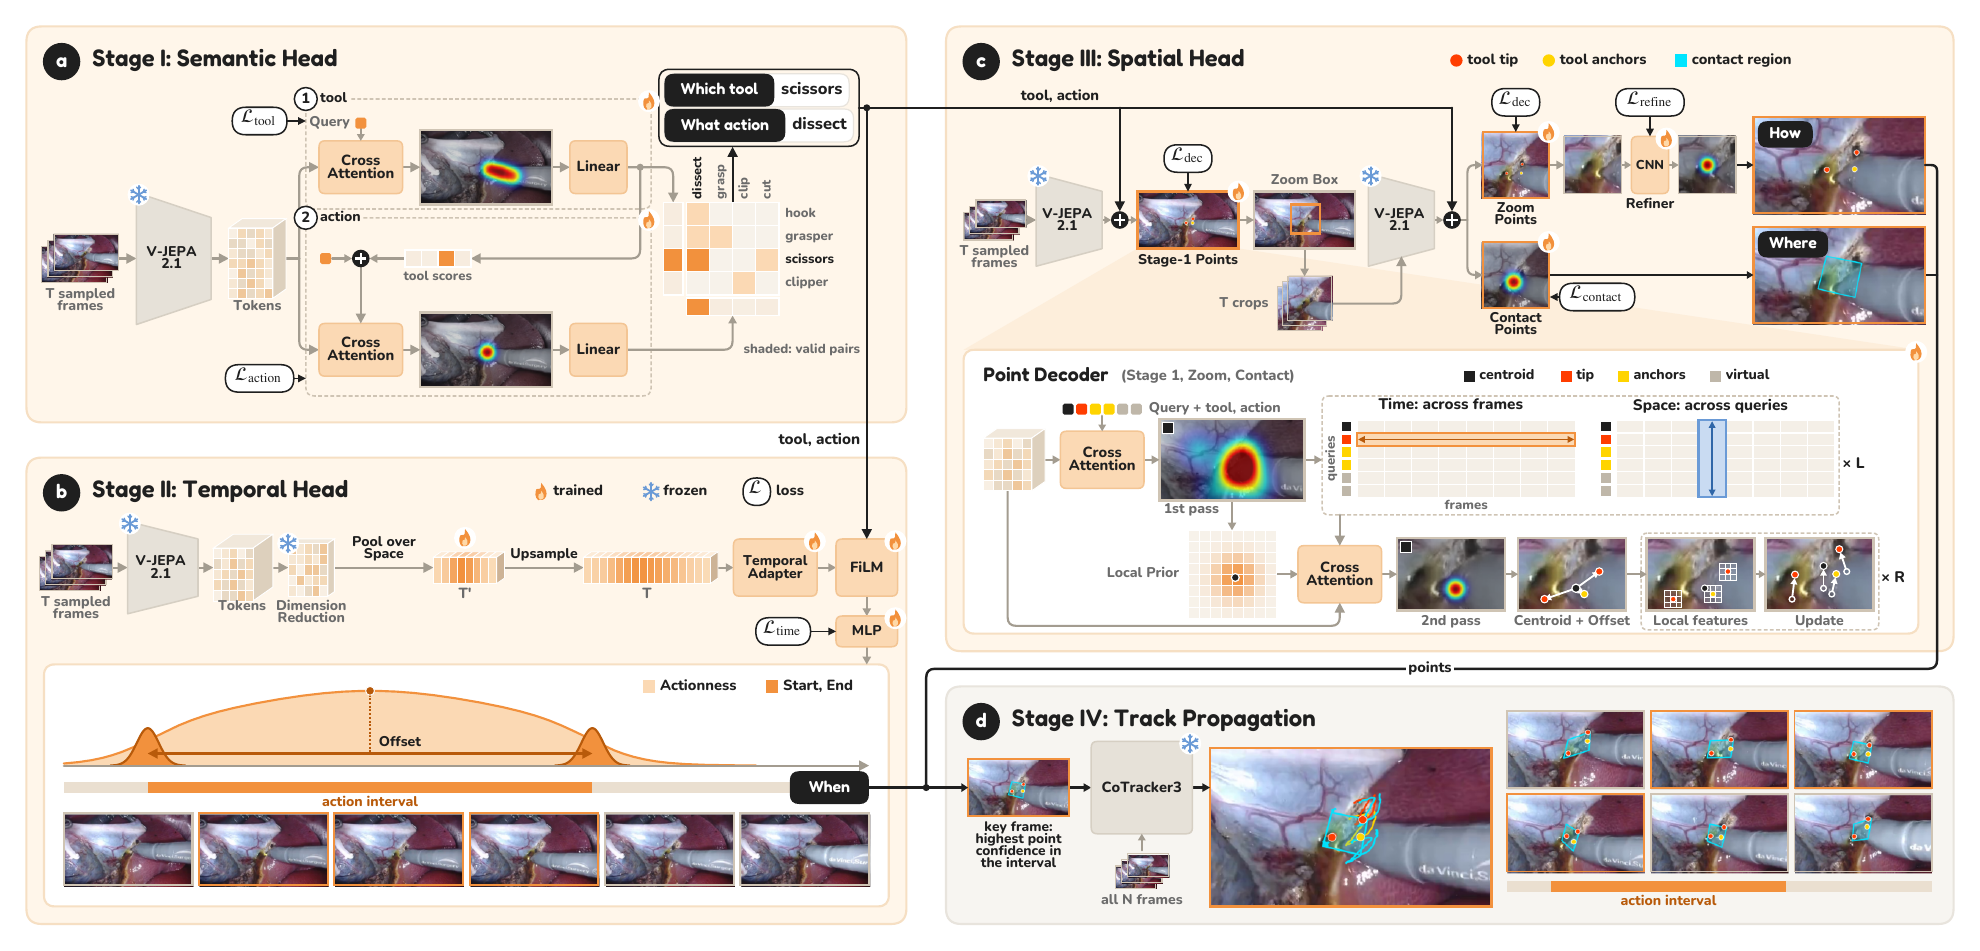
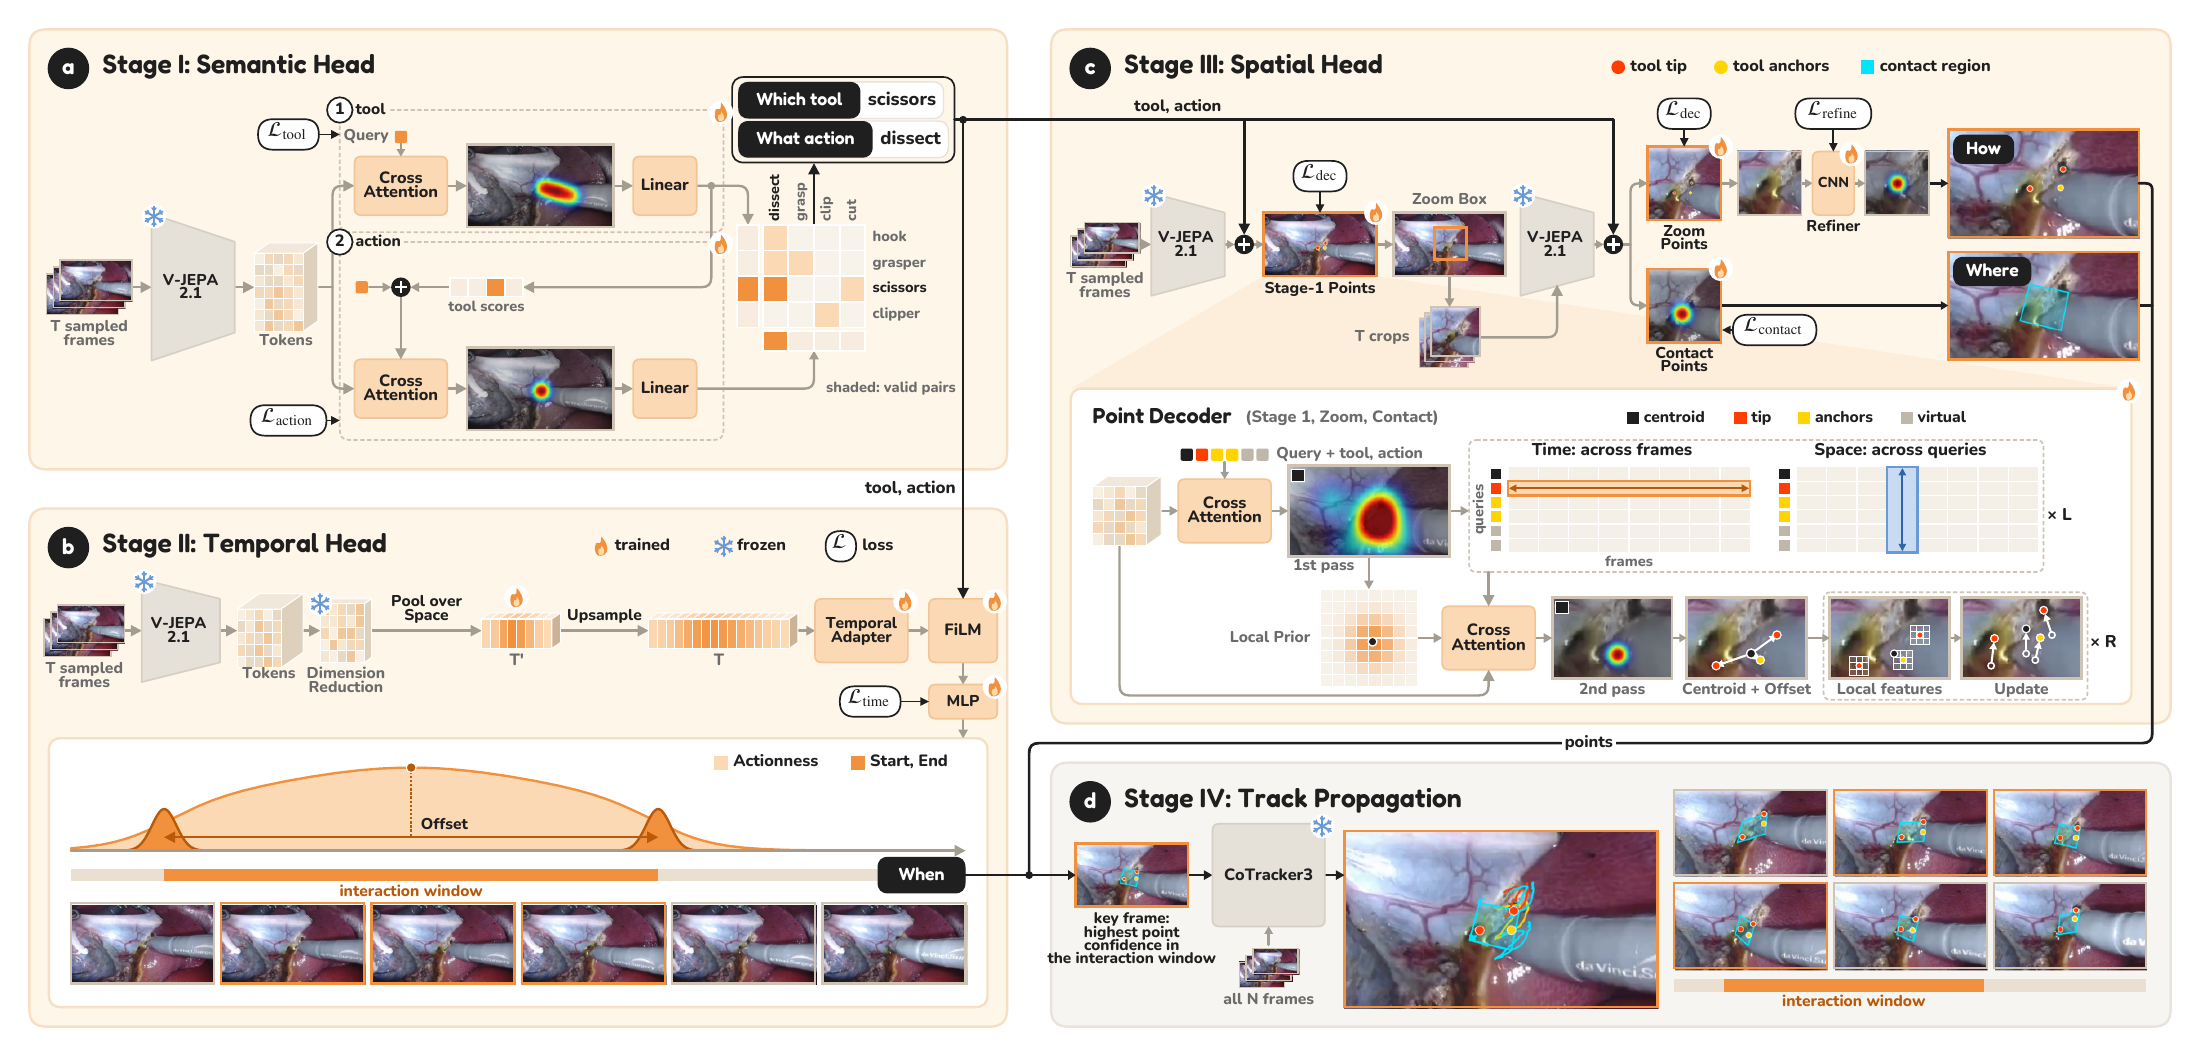
Keep hero resource links stationary and align the project page with the paper

diff --git a/index.html b/index.html
@@ -419,28 +419,25 @@
     --b: max(2px, calc(var(--u) * 2)); --ih: calc(var(--u) * 40); --gap: calc(var(--u) * 12);
     position: absolute; z-index: 2;
     /* the paw tip, as a point of the 1920 x 1080 video frame (the bubble is pinned the same way) */
-    left: calc((100vw - 1920 * var(--vs)) * .62 + 1920 * var(--vs) * .372);
+    left: max(calc(var(--gutter) + 15ch), calc((100vw - 1920 * var(--vs)) * .62 + 1920 * var(--vs) * .372 - var(--u) * 10));
     top: calc((100vh - 1080 * var(--vs)) * .5 + 1080 * var(--vs) * .632);
-    width: 0; height: 0;
+    display: grid; justify-items: end; gap: var(--gap); width: max-content;
+    transform: translate(-100%, calc(-100% + var(--ih) * .5));
   }
   .paw-item {
-    position: absolute; right: calc(var(--u) * 10); top: 0; height: var(--ih); padding: 0 calc(var(--u) * 18);
+    height: var(--ih); padding: 0 calc(var(--u) * 18);
     display: flex; align-items: center; white-space: nowrap; font-size: calc(var(--u) * 13);
     background: var(--paper); color: var(--ink);
     box-shadow: 0 calc(var(--b) * -1) 0 0 var(--ink), 0 var(--b) 0 0 var(--ink), calc(var(--b) * -1) 0 0 0 var(--ink), var(--b) 0 0 0 var(--ink),
                 calc(var(--u) * 5) calc(var(--u) * 5) 0 0 var(--ink);
-    transform: translateY(calc(-50% + var(--o, 0) * (var(--ih) + var(--gap))));
-    opacity: .78; transition: transform .55s cubic-bezier(0.16, 1, 0.3, 1), opacity .3s, background-color .12s, color .12s, box-shadow .12s;
+    opacity: .78; transition: opacity .15s, background-color .12s, color .12s;
   }
-  .paw-item:hover { opacity: 1; }
-  .paw-item.is-active { opacity: 1; }
-  .paw-item.is-active::after { content: ""; margin-left: calc(var(--u) * 10); width: calc(var(--u) * 7); height: calc(var(--u) * 7); background: var(--orange); }
-  .paw-item.is-tapped { background: var(--orange); color: #fff;
-    box-shadow: 0 calc(var(--b) * -1) 0 0 var(--ink), 0 var(--b) 0 0 var(--ink), calc(var(--b) * -1) 0 0 0 var(--ink), var(--b) 0 0 0 var(--ink), 0 0 0 0 var(--ink);
-    transform: translate(calc(var(--u) * 5), calc(-50% + var(--o, 0) * (var(--ih) + var(--gap)) + var(--u) * 5)); }
+  .paw-item:hover, .paw-item:focus-visible, .paw-item.is-active { opacity: 1; }
+  .paw-item:focus-visible { outline: 2px solid var(--orange); outline-offset: 5px; }
+  .paw-item::after { content: ""; margin-left: calc(var(--u) * 10); width: calc(var(--u) * 7); height: calc(var(--u) * 7); background: var(--orange); visibility: hidden; }
+  .paw-item.is-active::after { visibility: visible; }
+  .paw-item.is-tapped { background: var(--orange); color: #fff; }
   .paw-item.is-tapped::after { background: #fff; }
-  .bubble { transition: transform .16s cubic-bezier(.3, 1.6, .5, 1), background-color .16s; transform-origin: 0 100%; }
-  .bubble.is-pop { transform: translateY(calc(-100% - var(--u) * 12)) scale(1.08) rotate(-1.5deg); }
   .bubble.is-tap { background: #fff; }
   .hero__body .hero__actions { display: none; }          /* the links moved to the paw */
   .hero__lede { margin-bottom: calc(var(--u) * 6); }
@@ -498,7 +495,7 @@
   <p class="hero__paper">Unifying Surgical Action Understanding<br>in Time and Space</p>
   <div class="mosaic-slot" id="mosaicSlot" aria-hidden="true"></div>
 
-  <p class="bubble" id="bubble" aria-live="polite"><span id="bubbleText">Purr! Want the code?</span><span class="bubble__cursor" aria-hidden="true"></span>
+  <p class="bubble" id="bubble" aria-hidden="true"><span id="bubbleText">Purr! Want the code?</span><span class="bubble__cursor" aria-hidden="true"></span>
     <svg class="bubble__tail" viewBox="0 0 6 6" shape-rendering="crispEdges" aria-hidden="true"><path fill="#e7e7e7" d="M1 0h4v1h-1v1h-1v1h-1v1h-1z"/><path fill="#050505" d="M0 0h1v5h-1zM1 4h1v1h-1zM2 3h1v1h-1zM3 2h1v1h-1zM4 1h1v1h-1zM5 0h1v1h-1z"/></svg>
   </p>
 
@@ -522,7 +519,7 @@
     <ul class="hero__stats" aria-label="TACTUS at a glance">
       <li>22,995 action clips</li>
       <li>141 videos</li>
-      <li>5 questions per clip</li>
+      <li>5 benchmark questions</li>
     </ul>
   </div>
   <canvas id="scene"></canvas>
@@ -545,9 +542,9 @@
 <section class="sec abstract" id="abstract">
   <div class="sec__head"><span class="sec__no">01</span><h2 class="sec__title">Abstract</h2></div>
   <div class="gc rv"><div class="gc-hatch"></div><div class="gc-frame"><div class="gc-cell gc-pad">
-    <p>Surgical video models are learning to name what they see: the tool, the action, the phase of an operation. Yet an operation turns on what names leave out: when a tool starts to act, how its tip moves, and where it touches tissue. A surgeon follows all of this at a glance. Can models? No surgical dataset we review can tell, because none labels all of it on the same action.</p>
-    <p>We present <b>TACTUS</b>: 22,995 clips (2.9M frames) from 141 videos of five public sources, with tool and action classes, nested time spans, and, in nearly all, per-frame tool keypoints and contact regions. Per-frame labels are costly, about 15 minutes a clip, so TACTUS comes in two tiers. In 15,668 <b>Gold</b> clips, humans prompt a tracker on key frames, and each clip is reviewed and re-checked; in 7,327 <b>Silver</b> clips, a model places the prompts, at about one minute a clip.</p>
-    <p>On TACTUS, the answer is a sharp split. Our baseline, <b>TactusNet</b>, names 93.8% of tool&ndash;action pairs, yet even the best method per question recalls only 47% of action intervals at a tIoU of 0.7, misses a fifth of tool points by over 32 pixels, and reaches a contact Dice of 0.35. Naming these actions is within reach; following them remains open.</p>
+    <p>A surgical video model can recognize a maneuver by identifying the tool and its action. Following the maneuver also requires knowing when the instrument acts, how it moves, and where it touches tissue. Existing surgical benchmarks usually evaluate these questions separately. TACTUS brings them together within the same action.</p>
+    <p>We present <b>TACTUS</b>, a dataset of 22,995 action clips spanning 2.9 million frames from 141 videos across five public sources. Annotators identify the tool and action and mark the interaction window within the full action. Nearly all clips also include per-frame tool landmarks and tissue contact regions. In 15,668 <b>Gold</b> clips, people place the spatial prompts for tracking, then review and re-check the annotations. In 7,327 <b>Silver</b> clips, a model places the spatial prompts.</p>
+    <p>On the Gold test set, our reference model, <b>TactusNet</b>, identifies the tool and action together in 93.8% of clips after training on Gold. Adding Silver raises that accuracy to 95.5%. In a separate Gold-only experiment, fine-tuning an encoder for each head group reaches 95.8%. Pinpointing the interaction remains harder. ActionFormer recalls 46.6% of interaction windows at a temporal IoU threshold of 0.7, and SegFormer reaches a Dice score of 0.351 for overlap with the annotated contact region.</p>
   </div></div><div class="gc-hatch"></div></div>
 </section>
 
@@ -568,7 +565,7 @@
 </section>
 
 <section class="sec" id="questions">
-  <div class="sec__head"><span class="sec__no">03</span><h2 class="sec__title">Five Questions</h2><span class="sec__sub">What every clip answers</span></div>
+  <div class="sec__head"><span class="sec__no">03</span><h2 class="sec__title">Five Questions</h2><span class="sec__sub">What the annotations describe</span></div>
   <div class="gc rv"><div class="gc-hatch"></div><div class="gc-frame">
     <div class="gc-row c5">
       <div class="gc-cell gc-card"><div class="gc-well"></div><p class="gc-num">01</p><h3 class="gc-title">Which</h3><p class="gc-copy">Which instrument acts? One of four tools: hook, grasper, scissors, or clipper.</p></div>
@@ -591,7 +588,7 @@
       <div class="gc-cell gc-stat"><b>141</b><span>videos</span></div>
       <div class="gc-cell gc-stat"><b>2.9M</b><span>frames</span></div>
       <div class="gc-cell gc-stat"><b>6</b><span>tool&ndash;action pairs</span></div>
-      <div class="gc-cell gc-stat"><b>5</b><span>questions per clip</span></div>
+      <div class="gc-cell gc-stat"><b>5</b><span>benchmark questions</span></div>
     </div>
     <div class="gc-row c1"><div class="gc-cell gc-well" style="padding: calc(var(--u) * 22);"><img src="assets/fig_pipeline.png" alt="How TACTUS is annotated: select sources, cut clips and mark time, place points (Gold), review, and scale up with TactusNet (Silver)" loading="lazy" style="mix-blend-mode: multiply;"></div></div>
     <div class="gc-row c2 stack">
@@ -608,8 +605,8 @@
     <div class="gc-row c4">
       <div class="gc-cell gc-card"><div class="gc-well"></div><p class="gc-num">Stage I</p><h3 class="gc-title">Semantic Head</h3><p class="gc-copy">The instrument and action, decoded as one of the six valid tool&ndash;action pairs.</p></div>
       <div class="gc-cell gc-card"><div class="gc-well"></div><p class="gc-num">Stage II</p><h3 class="gc-title">Temporal Head</h3><p class="gc-copy">The start and end of the interaction window within the action window.</p></div>
-      <div class="gc-cell gc-card"><div class="gc-well"></div><p class="gc-num">Stage III</p><h3 class="gc-title">Spatial Head</h3><p class="gc-copy">Three instrument landmarks and four contact-region corners: first on the full frame, then on a crop, with a refiner at native resolution.</p></div>
-      <div class="gc-cell gc-card"><div class="gc-well"></div><p class="gc-num">Stage IV</p><h3 class="gc-title">Track Propagation</h3><p class="gc-copy">A frozen point tracker carries the predicted points through every frame of the action window.</p></div>
+      <div class="gc-cell gc-card"><div class="gc-well"></div><p class="gc-num">Stage III</p><h3 class="gc-title">Spatial Head</h3><p class="gc-copy">TactusNet first locates the tool on each full frame and crops around its landmarks. Separate decoders predict three tool landmarks and four contact-region corners in the crop. A final pass refines the tool landmarks at native resolution.</p></div>
+      <div class="gc-cell gc-card"><div class="gc-well"></div><p class="gc-num">Stage IV</p><h3 class="gc-title">Track Propagation</h3><p class="gc-copy">For dense annotation, TactusNet selects the most confident frame within the interaction window separately for tool points and contact corners. CoTracker3 tracks each group through the full action window.</p></div>
     </div>
   </div><div class="gc-hatch"></div></div>
 </section>
@@ -667,7 +664,7 @@
       </table>
     </div></div>
     <div class="gc-row c1"><div class="gc-cell gc-pad" style="display:flex;flex-wrap:wrap;gap:calc(var(--u) * 14);align-items:center;justify-content:space-between;">
-      <p class="gc-copy" style="max-width:62ch;">All methods train on the Gold training set and are scored by the same code. Shaded rows are TactusNet; the best value of each column is marked. Add your own method with one prediction file.</p>
+      <p class="gc-copy" style="max-width:62ch;">The learned methods train on Gold. The three reference baselines have no trainable parameters. When, How, and Where use the ground-truth tool and action. Spatial scores use direct predictions on 16 sampled frames, before track propagation. Shaded rows show TactusNet. Each column highlights its best value.</p>
       <div class="hero__actions"><a class="btn" href="https://github.com/Ruifreddie/TACTUS/tree/main/baselines">Run the benchmark</a><a class="btn" href="https://huggingface.co/abccbd/TACTUS-TactusNet">Get the checkpoints</a></div>
     </div></div>
   </div><div class="gc-hatch"></div></div>
@@ -713,34 +710,37 @@
 </script>
 <script>
   (function () {
-    var video = document.querySelector('.hero__media'), menu = document.getElementById('pawMenu');
-    var bubble = document.getElementById('bubble'), text = document.getElementById('bubbleText');
-    if (!video || !menu) return;
-    var items = [].slice.call(menu.querySelectorAll('.paw-item'));
-    items.forEach(function (el, i) { el.style.setProperty('--i', i); });
-    var PAW_OUT = 3.75, PAW_IN = 4.95;            // seconds of the 8 s loop during which the paw is stretched out
-    var active = -1, tapped = false, last = 0, typing = null;
-    function type(str) {                           // typewriter, like the template's blinking cursor suggests
-      clearInterval(typing); var n = 0; text.textContent = '';
-      bubble.classList.add('is-pop'); setTimeout(function () { bubble.classList.remove('is-pop'); }, 170);
-      typing = setInterval(function () { text.textContent = str.slice(0, ++n); if (n >= str.length) clearInterval(typing); }, 26);
+    const menu = document.getElementById('pawMenu');
+    const video = document.querySelector('.hero__media');
+    const bubble = document.getElementById('bubble');
+    const text = document.getElementById('bubbleText');
+    const links = Array.from(menu.querySelectorAll('.paw-item'));
+    let active = links[0];
+    let lastTime = video.currentTime;
+
+    function highlight(link, tapped = false) {
+      active.classList.remove('is-active', 'is-tapped');
+      active = link;
+      active.classList.add('is-active');
+      active.classList.toggle('is-tapped', tapped);
+      bubble.classList.toggle('is-tap', tapped);
+      text.textContent = tapped ? link.dataset.tap : link.dataset.idle;
     }
-    function setActive(i) {
-      active = i; menu.style.setProperty('--active', i);
-      items.forEach(function (el, k) { el.classList.toggle('is-active', k === i); el.classList.remove('is-tapped'); el.style.setProperty('--o', -((k - i + items.length) % items.length)); });   // the waiting links stack above the paw
-      tapped = false; bubble.classList.remove('is-tap'); type(items[i].dataset.idle);
+    highlight(active);
+    for (const link of links) {
+      link.addEventListener('pointerenter', () => highlight(link));
+      link.addEventListener('focus', () => highlight(link));
     }
-    function tick() {
-      var t = video.currentTime;
-      if (active < 0 || t < last - 1) setActive((active + 1) % items.length);     // the video looped: next link
-      last = t;
-      var out = t > PAW_OUT && t < PAW_IN;
-      if (out && !tapped) { tapped = true; items[active].classList.add('is-tapped'); bubble.classList.add('is-tap'); type(items[active].dataset.tap); }
-      if (!out && tapped && t >= PAW_IN) { items[active].classList.remove('is-tapped'); bubble.classList.remove('is-tap'); }
-      requestAnimationFrame(tick);
-    }
-    items.forEach(function (el, k) { el.addEventListener('mouseenter', function () { if (k !== active) setActive(k); }); });
-    requestAnimationFrame(tick);
+    // The kitten can highlight a link while idle, but each link keeps its own hit area.
+    video.addEventListener('timeupdate', () => {
+      const time = video.currentTime;
+      const looped = time < lastTime - 1;
+      lastTime = time;
+      if (menu.matches(':hover, :focus-within')) return;
+      const next = looped ? links[(links.indexOf(active) + 1) % links.length] : active;
+      const tapped = time > 3.75 && time < 4.95;
+      if (next !== active || tapped !== active.classList.contains('is-tapped')) highlight(next, tapped);
+    });
   })();
 </script>
 <script src="opening.js"></script>
